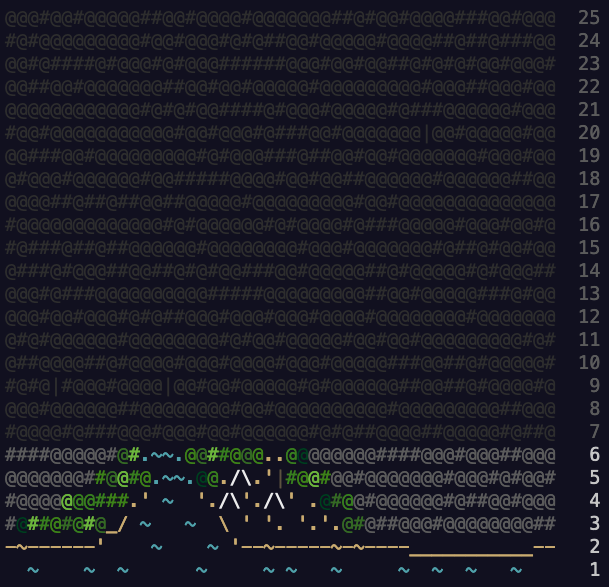
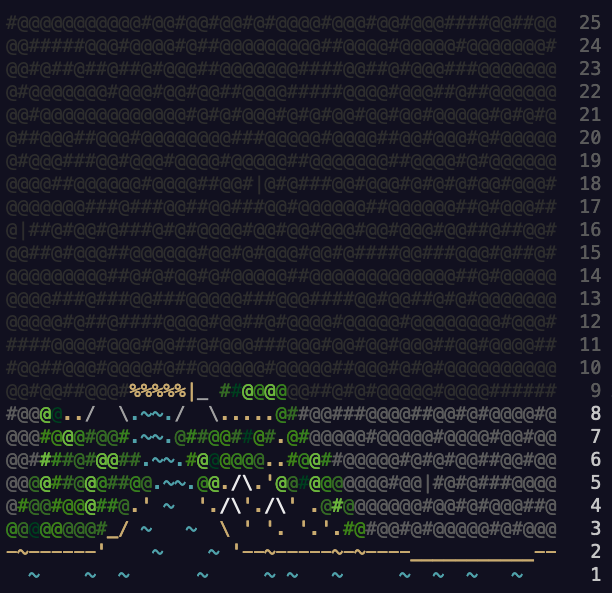
day08 - unwashed

diff --git a/2022/day08 - treetop tree house/day08.py b/2022/day08 - treetop tree house/day08.py
@@ -1,0 +1,70 @@
+"""
+How many trees are visible from outside the grid?
+"""
+# Unwashed af
+
+
+def max_height(tree, top, bottom, left, right):
+    max_top = int(max(top, default=0))
+    max_bottom = int(max(bottom, default=0))
+    max_left = int(max(left, default=0))
+    max_right = int(max(right, default=0))
+    if (int(tree) > max_top) or (int(tree) > max_bottom) or (int(tree) > max_right) or (int(tree) > max_left):
+        return 1
+    elif int(tree) == 0 and (len(top) == 0 or len(bottom) == 0 or len(left) == 0 or len(right) == 0):
+        return 1
+    else:
+        return 0
+
+
+def scenic(tree, top, bottom, left, right):
+    top_points = 0
+    bottom_points = 0
+    left_points = 0
+    right_points = 0
+    tree = int(tree)
+    for each in reversed(top):
+        if tree <= int(each):
+            top_points += 1
+            break
+        else:
+            top_points += 1
+    for each in bottom:
+        if tree <= int(each):
+            bottom_points += 1
+            break
+        else:
+            bottom_points += 1
+    for each in reversed(left):
+        if tree <= int(each):
+            left_points += 1
+            break
+        else:
+            left_points += 1
+    for each in right:
+        if tree <= int(each):
+            right_points += 1
+            break
+        else:
+            right_points += 1
+    scenic_score = top_points * bottom_points * right_points * left_points
+    return scenic_score
+
+
+grid = [x.strip() for x in open('input')]
+length = len(grid)
+silver = 0
+gold = 0
+for row, trees in enumerate(grid):
+    for col, tree in enumerate(trees):
+        top = [x[col] for x in grid[0:row]]
+        bottom = [x[col] for x in grid[row+1:length]]
+        left = [x for x in grid[row]][0:col]
+        right = [x for x in grid[row]][col+1:length]
+        silver += max_height(tree, top, bottom, left, right)
+        gold = max(gold, scenic(tree, top, bottom, left, right))
+
+print(silver)
+print(gold)
+
+

diff --git a/README.md b/README.md
@@ -3,7 +3,7 @@
 <a href="https://adventofcode.com/2022"><img src="2022/calender.png" width="80%" /></a>
 
 Here are my solutions for the annual Advent of Code (AoC) event in December. Hohoho!🎄🎅🎄
-* 2022 - 12 ⭐ (Python)
+* 2022 - 16 ⭐ (Python)
 * 2021 - 6 ⭐ (Python)
 
 ## 2022 Overview
@@ -13,11 +13,11 @@ Here are my solutions for the annual Advent of Code (AoC) event in December. Hoh
 | 01  | [Calorie Counting](https://adventofcode.com/2022/day/1) | ⭐⭐    |
 | 02  | [Rock Paper Scissors](https://adventofcode.com/2022/day/2) | ⭐⭐    |
 | 03  | [Rucksack Reorganization](https://adventofcode.com/2022/day/3) | ⭐⭐    |
-| 04  | [Camp Cleanup](https://adventofcode.com/2022/day/4) | ⭐⭐    |                                                        |       |
-| 05  | [Supply Stacks](https://adventofcode.com/2022/day/5) | ⭐⭐    |                                                           |       |
-| 06  | [Tuning Trouble](https://adventofcode.com/2022/day/6) | ⭐⭐    |                                                          |       |
-| 07  | [No Space Left On Device](https://adventofcode.com/2022/day/7) | ⭐⭐                                                       |       |
-| 08  |                                                         |       |
+| 04  | [Camp Cleanup](https://adventofcode.com/2022/day/4) | ⭐⭐ |  |       |
+| 05  | [Supply Stacks](https://adventofcode.com/2022/day/5) | ⭐⭐ | |       |
+| 06  | [Tuning Trouble](https://adventofcode.com/2022/day/6) | ⭐⭐ | |       |
+| 07  | [No Space Left On Device](https://adventofcode.com/2022/day/7) | ⭐⭐ |       |
+| 08  | [Treetop Tree House](https://adventofcode.com/2022/day/8) | ⭐⭐  |
 | 09  |                                                         |       |
 | 10  |                                                         |       |
 | 11  |                                                         |       |
